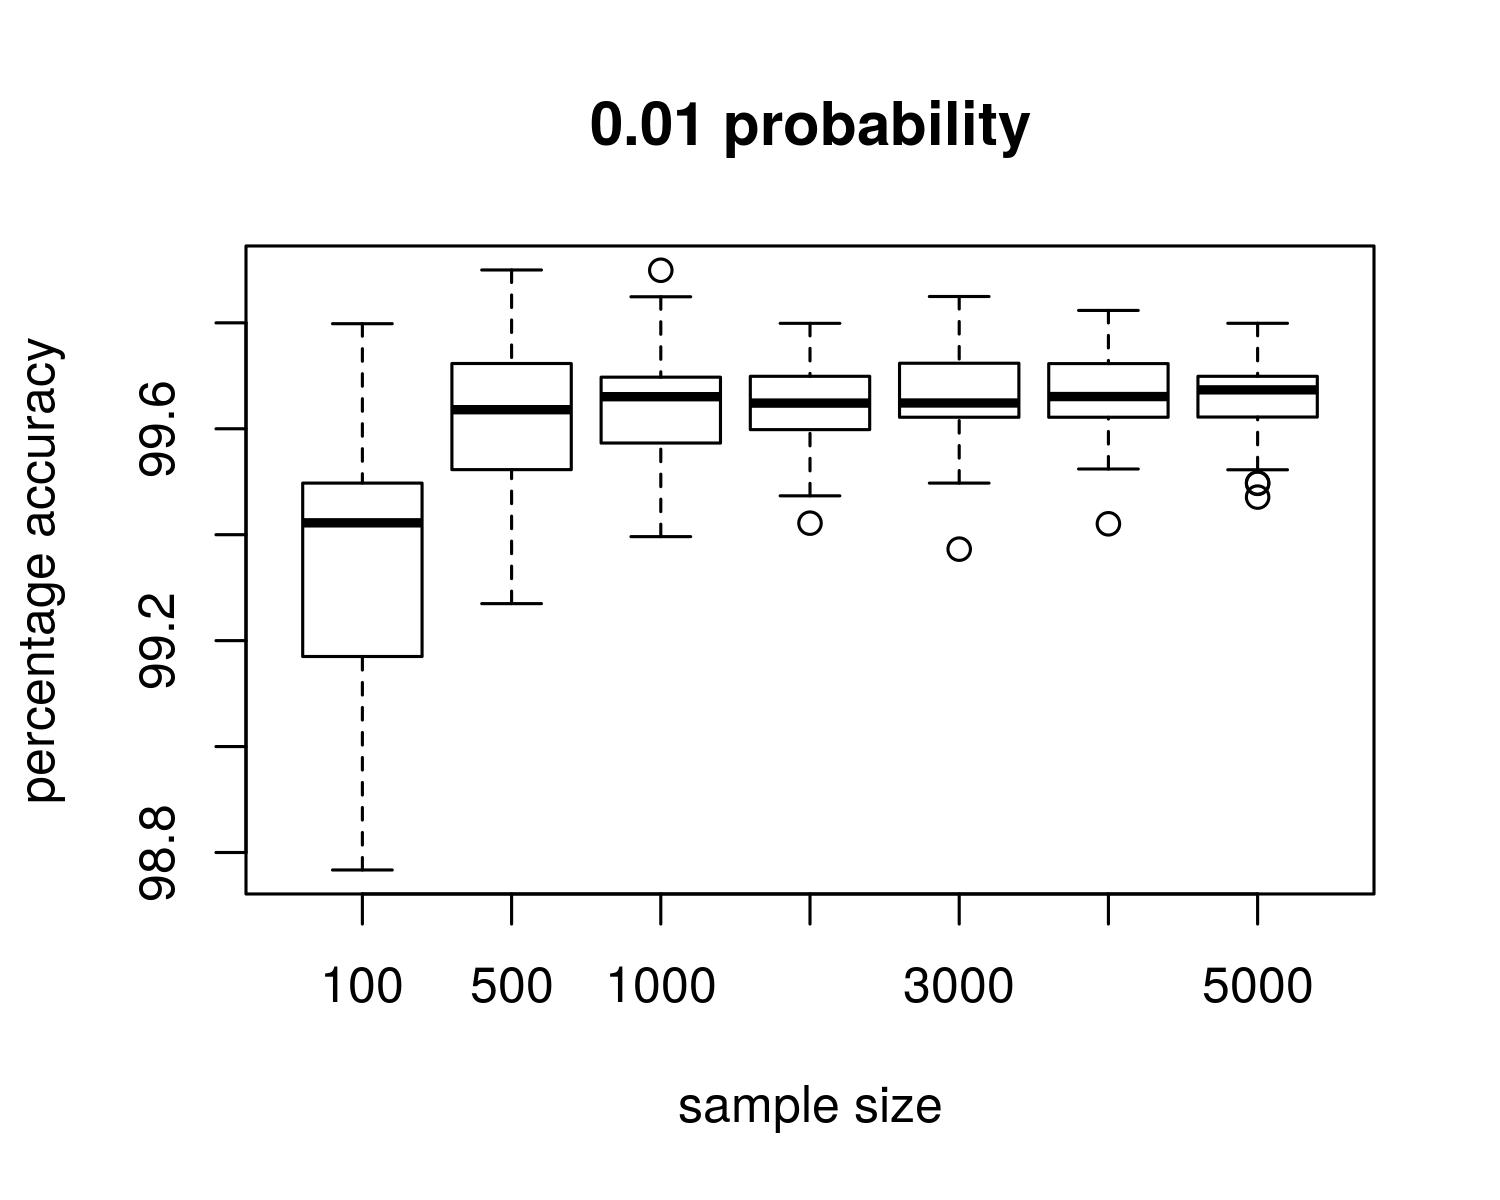
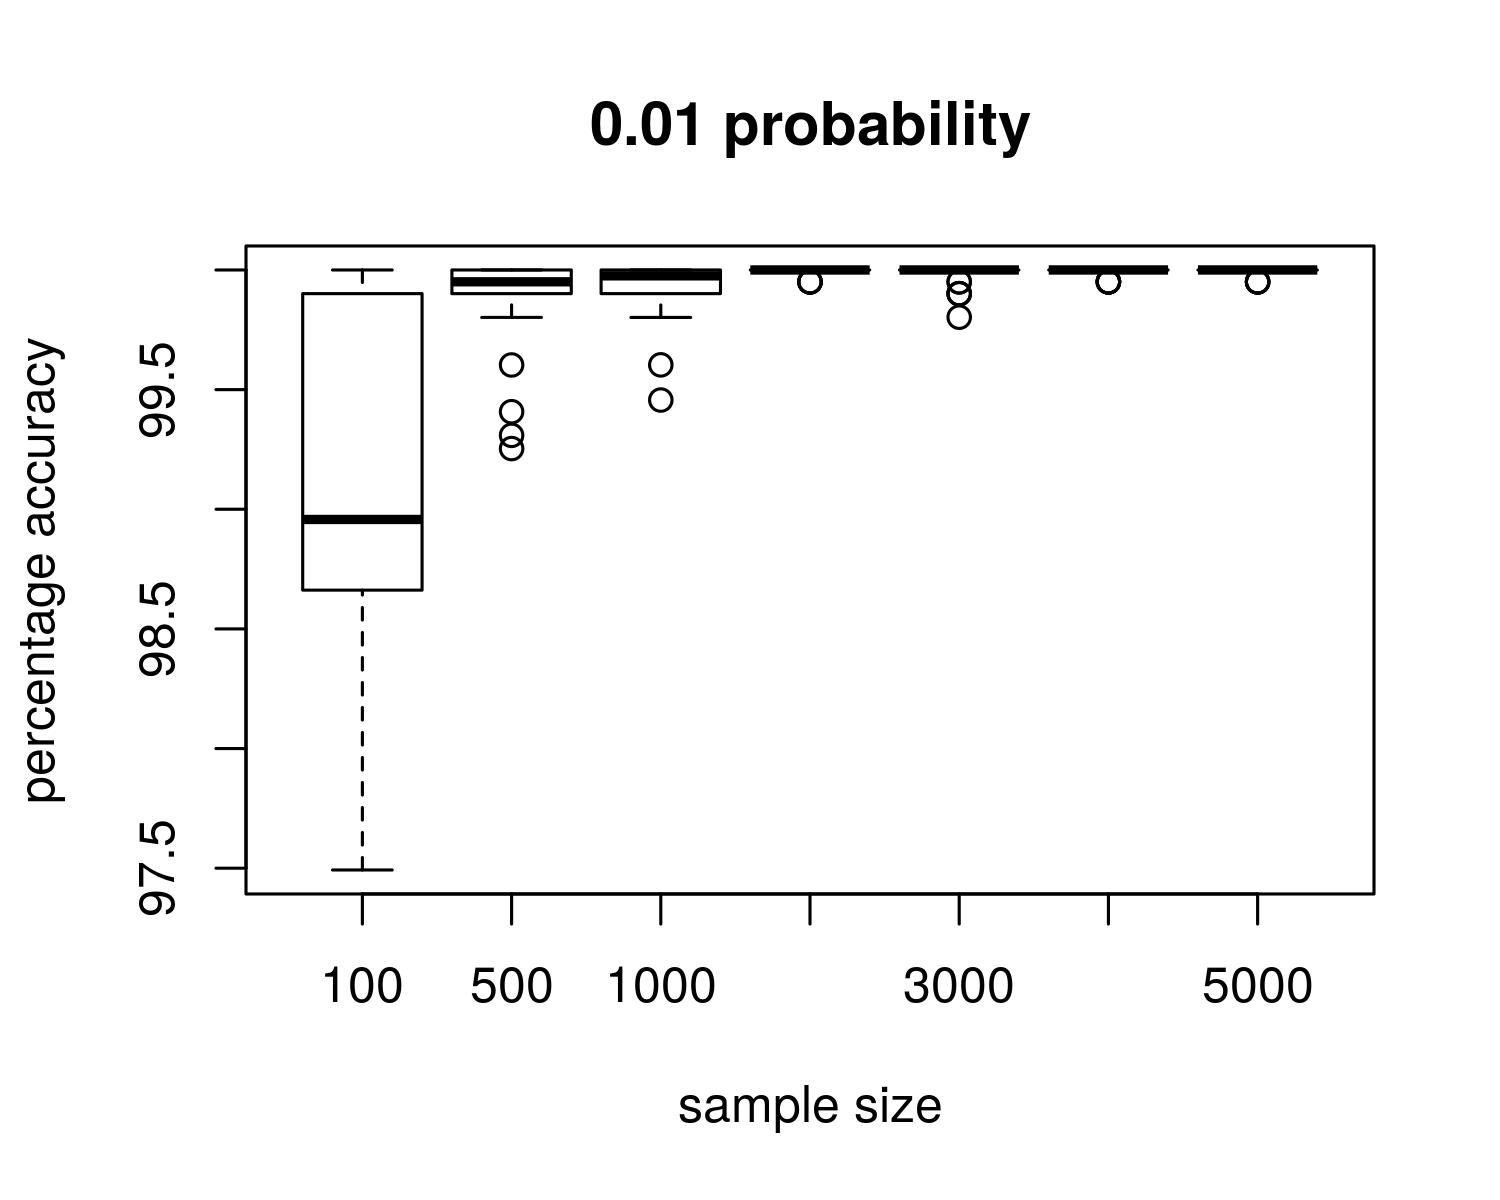
q

diff --git a/417/term_project/417course_project.html b/417/term_project/417course_project.html
@@ -13,6 +13,9 @@
 		    font-style: italic;
 			margin-left: 30px;
 		}
+		figcaption{
+			font-style: italic;
+		}
 
 		h1, h2, h3 {
 		    font-family: Arial, Helvetica, sans-serif;
@@ -157,7 +160,7 @@ If $\int$Cov$_{ij}(\tau) d\tau = 0$, then the signals are independent. Links for
 <p>Further observations of trajectories are done by the cameras to learn the topology. This process is mainly divided into three parts: data classification, parameter estimation, interpretation. </p>
 
 <a name="31"></a><h3>Data Classification</h3>
-<p>For each signal $x$ related to an appearance/disappearance of a target, Maximum-a-Posteriori is used to estimate which entry/exit zone $x$ belongs to using the following equations.
+<p>For each signal $x$ related to an appearance/disappearance of a target, Maximum-a-Posteriori (MAP) is used to estimate which entry/exit zone $x$ belongs to using the following equations.
 
 \begin{equation*}\mbox{most likely zone = arg}\max_{i\in Z} (p(i|x,\theta))\end{equation*}
 
@@ -211,10 +214,7 @@ However, if the most popular transition time is strictly negative, the following
 <p>Since the generation of signals is not ordered by time, we do not run Network Calibration at the same time as we gather data, unlike how it was originally designed.</p>
 
 <a name="42"></a><h3>Result</h3>
-<p>First, we examine the accuracy of the zone classification algorithm for our simulation. By varying the number of sample data needed to train the GMM model, we observe that </p>
-
-
-<p>For each combination of $\alpha_{13} \in \{0.01, 0.25, 0.50, 0.75, 0.99\}$ and sample size $n \in \{100, 500, 1000, 2000, 3000, 4000, 5000\}$ is tested 30 times, and results gathered based on the number of times a transition probability is found. As most links have transition time around 5 seconds in the setting, we choose a search window of $T=15$. Figure 4 shows how often $\alpha_{ij}(\tau)$ are found for each detected link. </p>
+<p>For each combination of $\alpha_{13} \in \{0.01, 0.25, 0.50, 0.75, 0.99\}$ and sample size $n \in \{100, 500, 1000, 2000, 3000, 4000, 5000\}$ is tested 30 times, and results gathered based on the number of times a transition probability is found. As most links have transition time around 5 seconds in the setting, we choose a search window of $T=15$. We choose a threshold $thr = E[R_{ij}(\tau)]$ to show as many potential candidates for the detected transition probabilities without tolerating too much noise. Figure 3 shows how often $\alpha_{ij}(\tau)$ are found for each detected link. </p>
 <figure>
 	<div class="scollableFigure">
 		<table></tr>
@@ -322,12 +322,36 @@ However, if the most popular transition time is strictly negative, the following
 				<td>2 &#10141; 2</td>
 		</tr>
 	</table><br>
-	<figcaption><b>Figure 4</b> Test result for different sample sizes and transition probabilities. Links with no data point indicates that only signals have been observed from their corresponding zone with a time elapsed of at most 15 seconds.</figcaption>
+	<figcaption><b>Figure 3</b> Test result for different sample sizes and transition probabilities. Links with no data point indicates that only signals have been observed from their corresponding zone with a time elapsed of at most 15 seconds. (Note that there is a total of 35 images in the scrollable table).</figcaption>
 </figure>
 
-<p>From the result, our initial hypothesis that links with low transition rate have less chance to be detected appears to be wrong. When the probability of transiting from zone 3 to zone 4 (link #17 on Figure 4) is set to 0.01, the method finds the link at least 50% of the time for sample size above 1000. When set to 0.25, the method achives to find the same transition probability for that link with a specific transition time for all the 30 runs and sample size at least 500.</p>
-<p>While it is apparent that small sample size affects the ability for the method to detect all the zones, when a link has high transition rate, a sample size too large may overload the system with too much signal data. As observed for link 3-4, when the transition rate is raised higher than 0.5, the method inundates the cross-correlation vector for that link, inflating the significance of invalid transition times. As the threshold to filter the covariance is defined according to the mean and variance of the cross-correlation (see equation 5), the peak for that link therefore looses its significance. The similar situation is observed for link 1-2 (link #5 on Figure 4), as each simulated trajectory must start from zone 1. This link is almost never detected regardless of its transition rate.</p>
-<p>As targets much cross link 4-5 (link #8 on Figure 4) after crossing link 3-4 in the simulation, these two links are correlated. In the result, this correlation is also evident. However, redundant links such as 1-3, 1-4, 1-5 and 3-5 should also be coorelated with link 4-5. As discussed previously, any link related with zone 1 is rarely detected due to the crowdedness of the signals at zone 1. On the other hand, 1-4 and 3-5 are entry-entry or exit-exit links. Since the method only detect exit-entry links (which is adequate for detecting connections between camera view), unless some zones are misclassified, detecting these links would be impossible.</p>
+<p>From the result, our initial hypothesis that links with low transition probability  $\alpha_{13}$ have less chance to be detected appears to be wrong. When the probability of transiting from zone 3 to zone 4 (link #17 on Figure 3) is set to 0.01, the method finds the link at least 50% of the time for sample size above 1000. When set to 0.25, the method achives to find the same transition probability for that link with a specific transition time for all the 30 runs and sample size at least 500.</p>
+
+<p>While it is apparent that small sample size affects the ability for the method to detect all the zones, when a link has high transition probability, a sample size too large may overload the system with too much signal data. As observed for link 3-4, when the  $\alpha_{13}$ is raised higher than 0.5, the method inundates the cross-correlation vector for that link, inflating the significance of invalid transition times. As the threshold to filter the covariance is defined according to the mean and variance of the cross-correlation (see equation 5), the peak for that link therefore looses its significance. The similar situation is observed for link 1-2 (link #5 on Figure 3), as each simulated trajectory must start from zone 1. This link is almost never detected regardless of its transition probability.</p>
+<p>As targets much cross link 4-5 (link #8 on Figure 3) after crossing link 3-4 in the simulation, these two links are correlated. In the result, this correlation is also evident. However, redundant links such as 1-3, 1-4, 1-5 and 3-5 should also be coorelated with link 4-5. As discussed previously, any link related with zone 1 is rarely detected due to the crowdedness of the signals at zone 1. On the other hand, 1-4 and 3-5 are entry-entry or exit-exit links. Since the method only detect exit-entry links (which is adequate for detecting connections between camera view), unless some signals are misclassified when performing MAP, detecting these links would be impossible.</p>
+<p>Arguably, the threshold affects how the method perform in detecting links correlated with link 3-4. However, decreasing the threshold would also increase the significance for the invalid links. In many cases, such links are detected more often or found to have more significant covariance peak than some valid links, possibly due to noise and misclassification.</p>
+<p>On the inspection of possible misclassification, we found that the percange accuracy for classifying a signal to the zone that it was generated form varies according to $\alpha_{13}$. When this rate is low, the chance of observing signal from other zones than 1 and 2 is lower, resulting zones 1 and 2 to be more popular. Thus, classification when there are mainly two choices is highly successful. When the variety of zone observed is high, there are more chance of matching a signal with the wrong zone. Figure 4 shows this result.</p>
+
+<figure>
+	<div class="scollableFigure">
+		<table></tr>
+				<td><img class="flow" src="accuracy0.01.jpeg" style="height:100%;"></td>
+				<td><img class="flow" src="accuracy0.25.jpeg" style="height:100%;"></td>
+				<td><img class="flow" src="accuracy0.5.jpeg" style="height:100%;"></td>
+				<td><img class="flow" src="accuracy0.75.jpeg" style="height:100%;"></td>
+				<td><img class="flow" src="accuracy0.99.jpeg" style="height:100%;"></td>
+		</tr></table>
+	</div><br>
+	<figcaption><b>Figure 4</b> The percentage accuracy of classifying a signal for each transition probability $\alpha_{13}$ and sample size to train the classifier. (Note that there is a total of 5 images in the scrollable table.)</figcaption>
+</figure>
+
+<p>Linking back to our main result, misclassification may explain why the link 3-5 is occasionally detected when $\alpha_{13}$ is high. Also, certain invalid links, such as 3-3 and 4-4, are found more often when the $\alpha_{13}$ is high. A possible senario is that some signals from zone 4 is classified to zone 3, and vice-versa. Since there is a valid link between the two zone, the method would find a peak for 3-3 and 4-4. However, this senario is only valid if signals for appearance and dissapearance of target are not distiguished by whether the zones to which they are associated to are entry zone or exit zones. In our implementation, we assumed that the distinction can be make by observing the signal itself. In the original paper, the authors did not clarify on this part of their design. </p>
+
+<a href='#top'>[top]</a>
+
+<a name="5"></a><h2>Conclusions </h2>
+<p>In our experiement, we constructed a scene with 2 cameras with a simple model for the behavior of the targets. Despite that it is a simulation, we were able to investigate on some edge cases where Network Calibration may have difficulty with. Mainly, when signals from a exit-entry zone pair is crowded, </p>
+<p>A direct consequence of misclassification is that the method may in some cases establish a wrong connection between two close camera. In a setting where two camera view are seperated by a wall, for example, the Gaussian assumption of the signals implies that the zones are extended infinitely far. A small accuracy error may enable the targets in the model to move through the wall. It may possible to improve the method by confining the zone within the boundary of the camera views. However, in a real experiment, noise from camera sensor may possibly cause signals to be detected beyond the bound.</p>
 
 As probability increase, the capability to detect decreases
 This justified by the fact that too much signal can overwhelm the system 
@@ -336,9 +360,7 @@ misclassified signals may potentially cause the system to find false links in th
 where we have two completely disconnected camera views but close to each other (maybe seperated by a wall), zone in one may be classified to the zone of another. Because of the gaussian assumption, we do 
 not consider the fact that signals in some zones are bounded.
 
-<a href='#top'>[top]</a>
 
-<a name="5"></a><h2>Conclusions </h2>
 In summary, our results indicates that....
 The advantages of the method are....
 The disadvantages of the method include....

diff --git a/417/term_project/map.py b/417/term_project/map.py
@@ -262,7 +262,7 @@ if __name__ == "__main__":
 	ns = [100, 500, 1000, 2000, 3000, 4000, 5000]
 
 	# for testprob in ([0.99, 0.01], [0.75, 0.25], [0.50, 0.50], [0.25, 0.75], [0.01, 0.99]):
-	for testprob in ([0.75, 0.25],):
+	for testprob in ([0.25, 0.75],):
 		resultAllLink = {}
 		utils.changeProb(testprob)
 		# for n in ns:
